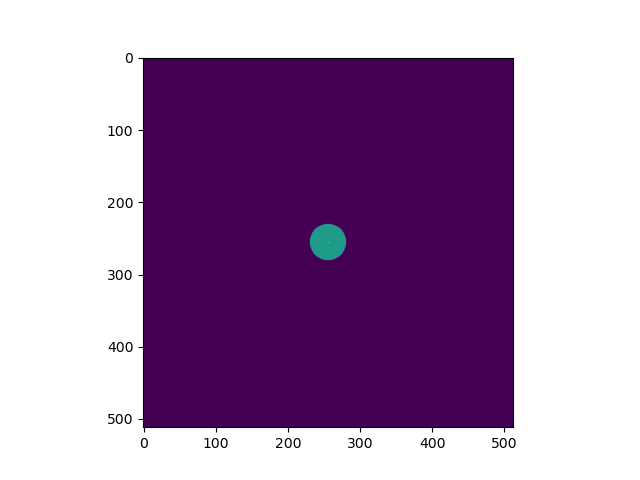
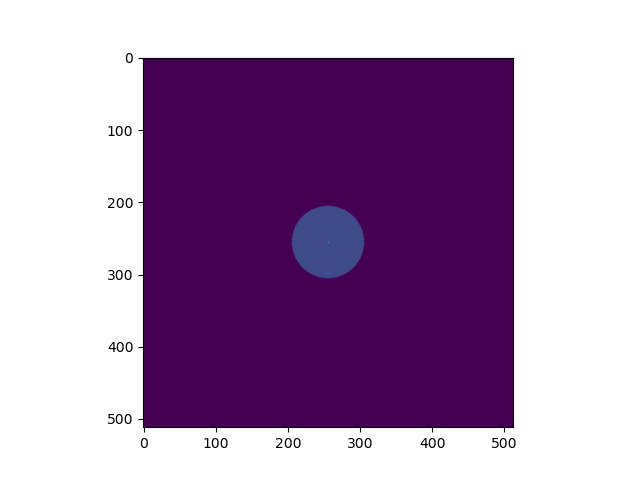
update basicModel and figure

Changed region(s): [[0.4375, 0.4062, 0.5938, 0.5938]]

diff --git a/examples/BasicExamples/basicModels.py b/examples/BasicExamples/basicModels.py
@@ -37,12 +37,14 @@ print(freeParams)
  
 
 #%%   
-im = mUDPt.getImage(512,0.2)
-plt.imshow(im**0.1)
+
+im = mUDPt.getImage(512,0.1)
+plt.figure()
+plt.imshow(im**0.2)
 plt.savefig(os.path.join(path,os.pardir,"images","basicModel_imshow.png"))
 
 #%%
-figImg,axImg=mUDPt.showModel(512,0.1,normPow=0.2, figsize=(5,4),
+figImg,axImg,Img=mUDPt.showModel(512,0.1,normPow=0.2, figsize=(5,4),
     savefig=os.path.join(path,os.pardir,"images","basicModel_showModel.png"))
 
 #%%
@@ -62,6 +64,7 @@ ccf = mUDPt.getComplexCoherentFlux(spf,spf*0) # East-West baselines
 
 v = np.abs(ccf)
 v=v/v.max()
+plt.figure()
 plt.plot(spf , v)
 plt.xlabel("spatial frequency (cycles/rad)")
 plt.ylabel("Visbility")
